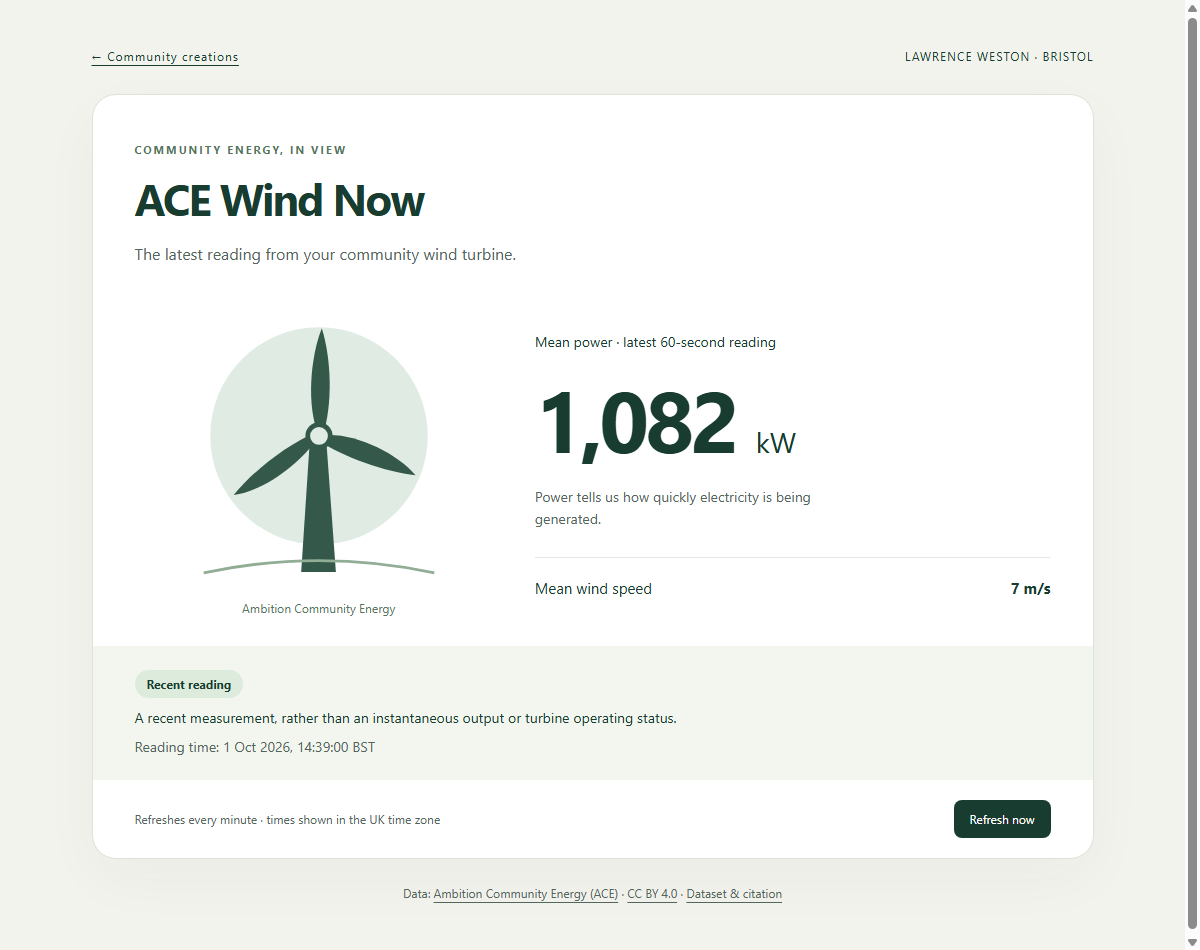
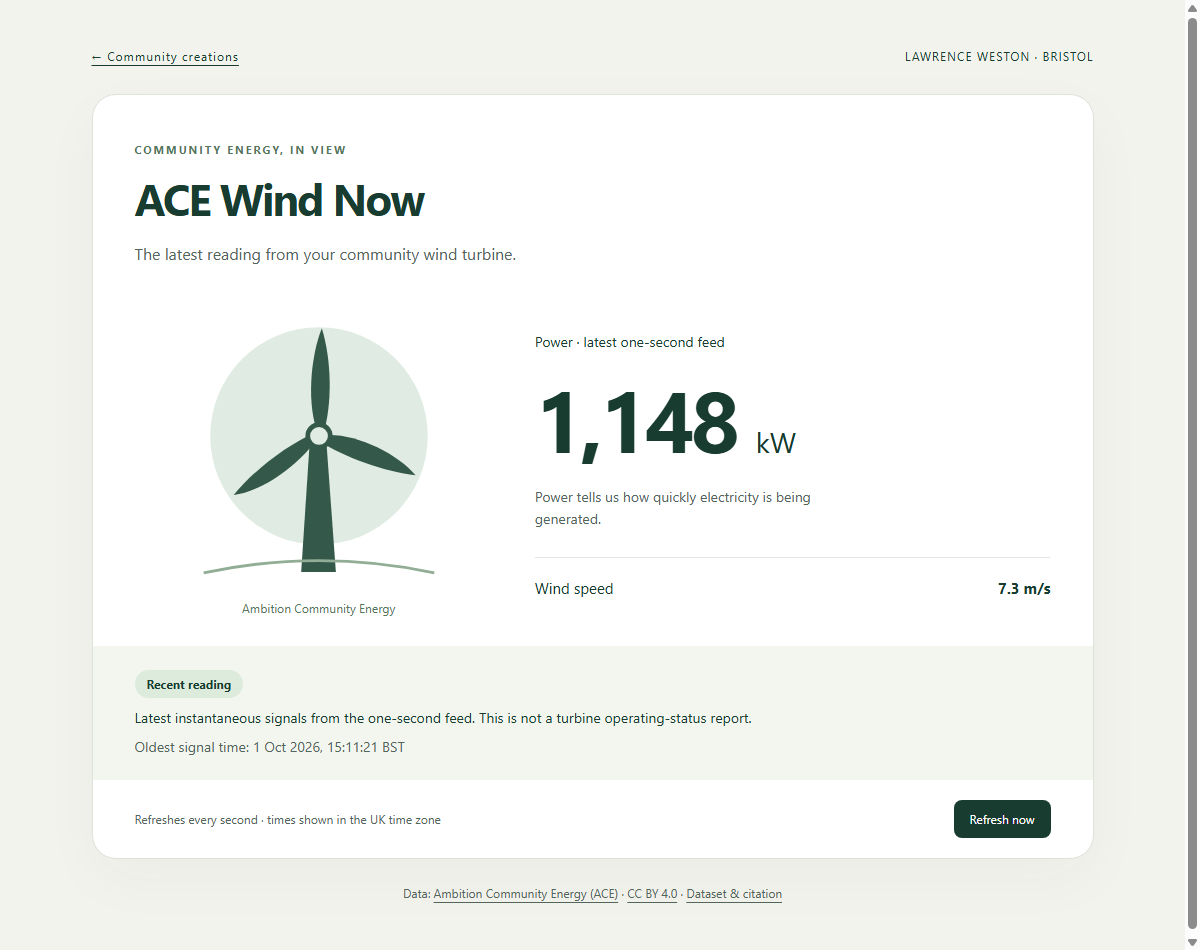
Lead with the challenge and use one-second ACE signals

diff --git a/site/index.html b/site/index.html
@@ -15,10 +15,11 @@
   </header>
   <main>
     <section class="hero shell" aria-labelledby="hero-title">
-      <div class="hero-copy"><p class="eyebrow">Open Data Exploration · Challenge 5</p><h1 id="hero-title">A wind turbine.<br><em>A community of ideas.</em></h1><p class="intro">Explore creative displays that turn live data from Lawrence Weston’s community-owned ACE turbine into something everyone can understand.</p><div class="hero-actions"><a class="button primary" href="#creations">Explore creations <span aria-hidden="true">↓</span></a><a class="button secondary" href="https://community.wedowind.ch/posts/open-data-exploration-solutions-107654528">Enter on WeDoWind ↗</a></div></div>
+      <div class="hero-copy"><p class="eyebrow">Open Data Exploration · Challenge 5</p><h1 id="hero-title">A wind turbine.<br><em>A community of ideas.</em></h1><p class="intro">Your challenge: create an engaging public display with live data from the ACE wind turbine. Help people in Lawrence Weston see what their turbine is doing and discover the value it creates for their community.</p><div class="hero-actions"><a class="button primary" href="#share">Share your idea <span aria-hidden="true">↓</span></a><a class="button secondary" href="https://community.wedowind.ch/posts/open-data-exploration-solutions-107654528">Enter on WeDoWind ↗</a></div></div>
       <div class="hero-art" aria-hidden="true"><div class="sun"></div><div class="hill back"></div><div class="hill front"></div><div class="turbine"><div class="pole"></div><div class="hub"><i></i><i></i><i></i></div></div><div class="art-caption">LAWRENCE WESTON<br>BRISTOL, UK</div></div>
     </section>
     <section class="context"><div class="shell context-grid"><div><p class="eyebrow">The brief</p><h2>Make the live data meaningful.</h2></div><p>ACE’s turbine helps generate income for community work in Lawrence Weston. These creations use its live data to show what the turbine is doing, with the public screen in mind. Each project is independently made and openly shared.</p></div></section>
+    <section id="share" class="contribute" aria-labelledby="share-title"><div class="shell contribute-grid"><div><p class="eyebrow">Your idea belongs here</p><h2 id="share-title">Share what you make.</h2><p>New to code or GitHub? You can send your files through a simple form. If you use Git or an AI agent, <a href="https://github.com/WeDoWind/WeDoWind-ODE-ACE-Challenge">fork this repository</a> and open a pull request. All creations come together here.</p></div><div class="contribute-links"><a href="https://github.com/WeDoWind/WeDoWind-ODE-ACE-Challenge/issues/new?template=creation.yml">Submit with a form <span aria-hidden="true">↗</span></a><a href="https://github.com/WeDoWind/WeDoWind-ODE-ACE-Challenge/blob/main/CONTRIBUTING.md">Read the contribution guide <span aria-hidden="true">↗</span></a><a href="https://ace-api.duckdns.org/docs">Explore the ACE API <span aria-hidden="true">↗</span></a><a href="https://doi.org/10.5281/zenodo.22662372">ACE dataset &amp; citation on Zenodo <span aria-hidden="true">↗</span></a></div></div></section>
     <section id="creations" class="gallery shell" aria-labelledby="gallery-title"><div class="section-heading"><div><p class="eyebrow">The library</p><h2 id="gallery-title">Community creations</h2></div><p id="count" class="count" aria-live="polite"></p></div><div id="gallery" class="cards" aria-live="polite"><p class="loading">Loading creations…</p></div></section>
     <section class="community shell" aria-labelledby="community-title">
       <p class="eyebrow">Keep exploring</p><h2 id="community-title">Meet the community behind the challenge.</h2>
@@ -27,7 +28,6 @@
         <article class="community-card"><div class="community-logo"><img class="ode-logo" src="images/brands/ode-logo.svg" alt="Open Data Exploration (ODE)" width="114" height="110"></div><h3>Get curious about open data.</h3><p>The Open Data Exploration (ODE) space on WeDoWind is a place to explore wind energy data together. Start with the ACE display challenge and share what you discover.</p><a href="https://community.wedowind.ch/spaces/16737373/content">Explore the ODE space <span aria-hidden="true">↗</span></a></article>
       </div>
     </section>
-    <section class="contribute"><div class="shell contribute-grid"><div><p class="eyebrow">Your idea belongs here</p><h2>Share what you make.</h2><p>New to code or GitHub? You can send your files through a simple form. If you use Git or an AI agent, <a href="https://github.com/WeDoWind/WeDoWind-ODE-ACE-Challenge">fork this repository</a> and open a pull request. All creations come together here.</p></div><div class="contribute-links"><a href="https://github.com/WeDoWind/WeDoWind-ODE-ACE-Challenge/issues/new?template=creation.yml">Submit with a form <span aria-hidden="true">↗</span></a><a href="https://github.com/WeDoWind/WeDoWind-ODE-ACE-Challenge/blob/main/CONTRIBUTING.md">Read the contribution guide <span aria-hidden="true">↗</span></a><a href="https://ace-api.duckdns.org/docs">Explore the ACE API <span aria-hidden="true">↗</span></a><a href="https://doi.org/10.5281/zenodo.22662372">ACE dataset &amp; citation on Zenodo <span aria-hidden="true">↗</span></a></div></div></section>
   </main>
   <footer><div class="shell footer-grid"><p>Made for the <a href="https://community.wedowind.ch/posts/open-data-exploration-challenge-5-ace-public-communication-display">WeDoWind ODE challenge</a>. Cite the <a href="https://doi.org/10.5281/zenodo.22662372">ACE dataset (DOI: 10.5281/zenodo.22662372)</a>. ACE data is available under <a href="https://creativecommons.org/licenses/by/4.0/">CC BY 4.0</a>.</p><p>Each creation has its own author and licence. <a href="https://ambitioncommunityenergy.org/">About ACE ↗</a></p></div></footer>
 </body>

diff --git a/site/creations/ace-wind-now/app.js b/site/creations/ace-wind-now/app.js
@@ -1,5 +1,5 @@
-const ENDPOINT = 'https://ace-api.duckdns.org/v1/sites/ace/assets/wec-1/data/wecstd/latest?resolution=60s&fields=active_power_mean,wind_speed_mean&limit=1';
-const STALE_MS = 5 * 60 * 1000;
+const ENDPOINT = 'https://ace-api.duckdns.org/v1/sites/ace/assets/wec-1/data/wec_instantaneous/latest?resolution=1s&fields=wec_active_power,wec_wind_speed&limit=1';
+const STALE_MS = 60 * 1000;
 const ui = Object.fromEntries(['power', 'wind', 'status', 'message', 'timestamp', 'refresh'].map(id => [id, document.getElementById(id)]));
 let reading = null;
 let failed = false;
@@ -7,23 +7,26 @@ let pending = false;
 
 function parseReading(data) {
   const timestamp = data.timestamps?.[0];
-  const power = data.series?.active_power_mean?.[0];
-  const wind = data.series?.wind_speed_mean?.[0];
+  const power = data.series?.wec_active_power?.[0];
+  const wind = data.series?.wec_wind_speed?.[0];
   // ACE timestamps are Unix microseconds, not JavaScript milliseconds.
   const time = timestamp / 1000;
-  if (!Number.isFinite(timestamp) || !Number.isFinite(time) || !Number.isFinite(new Date(time).getTime()) || time > Date.now() + 60000 || !Number.isFinite(power) || !Number.isFinite(wind) || data.quality?.[0] !== 'good') throw new Error('No valid reading');
-  for (const field of ['active_power_mean', 'wind_speed_mean']) {
+  if (!Number.isFinite(timestamp) || !Number.isFinite(time) || !Number.isFinite(new Date(time).getTime()) || time > Date.now() + 60000 || !Number.isFinite(power) || !Number.isFinite(wind) || String(data.quality?.[0]).toLowerCase() !== 'good') throw new Error('No valid reading');
+  for (const field of ['wec_active_power', 'wec_wind_speed']) {
     const quality = data.series_quality?.[field]?.[0];
-    if (quality != null && quality !== 'good') throw new Error('Field quality is not good');
+    if (String(quality).toLowerCase() !== 'good') throw new Error('Field quality is not good');
   }
-  return { time, power, wind };
+  const observed = ['wec_active_power', 'wec_wind_speed'].map(field => data.series_observed_at?.[field]?.[0]);
+  if (observed.some(value => !Number.isFinite(value) || !Number.isFinite(new Date(value / 1000).getTime()) || value / 1000 > Date.now() + 60000)) throw new Error('Invalid observation time');
+  // Use the oldest signal observation so a fresh row cannot hide an old field.
+  return { time: Math.min(time, ...observed.map(value => value / 1000)), power, wind };
 }
 function render() {
   const stale = reading && Date.now() - reading.time > STALE_MS;
   const state = failed ? 'unavailable' : stale ? 'stale' : reading ? 'current' : 'loading';
   ui.status.dataset.state = state;
   ui.status.textContent = { unavailable: 'API unavailable', stale: 'Stale reading', current: 'Recent reading', loading: 'Loading' }[state];
-  ui.message.textContent = failed ? (reading ? 'Could not refresh. Showing the last successful reading; it may be out of date.' : 'No reading available. We will retry automatically in one minute.') : stale ? 'This reading is more than five minutes old. It does not describe the turbine right now.' : reading ? 'A recent measurement, rather than an instantaneous output or turbine operating status.' : 'Fetching the latest ACE reading…';
+  ui.message.textContent = failed ? (reading ? 'Could not refresh. Showing the last successful reading; it may be out of date.' : 'No reading available. We will retry automatically in one second.') : stale ? 'This reading is more than one minute old. It does not describe the turbine right now.' : reading ? 'Latest instantaneous signals from the one-second feed. This is not a turbine operating-status report.' : 'Fetching the latest ACE reading…';
   ui.power.textContent = reading ? reading.power.toLocaleString('en-GB', { maximumFractionDigits: 0 }) : '—';
   ui.wind.textContent = reading ? reading.wind.toLocaleString('en-GB', { maximumFractionDigits: 1 }) : '—';
   ui.timestamp.textContent = reading ? new Intl.DateTimeFormat('en-GB', { dateStyle: 'medium', timeStyle: 'long', timeZone: 'Europe/London' }).format(new Date(reading.time)) : 'Not available yet';
@@ -43,5 +46,5 @@ async function refresh() {
 }
 ui.refresh.addEventListener('click', refresh);
 refresh();
-setInterval(refresh, 60000);
-setInterval(render, 10000);
+setInterval(refresh, 1000);
+setInterval(render, 1000);

diff --git a/site/creations/ace-wind-now/index.html b/site/creations/ace-wind-now/index.html
@@ -3,7 +3,7 @@
 <body><main><header><a href="../../">← Community creations</a><span>LAWRENCE WESTON · BRISTOL</span></header>
 <section class="card" aria-labelledby="title"><div class="intro"><p class="eyebrow">COMMUNITY ENERGY, IN VIEW</p><h1 id="title">ACE Wind Now</h1><p>The latest reading from your community wind turbine.</p></div>
 <div class="readings"><div class="art" aria-hidden="true"><svg viewBox="0 0 320 320"><circle cx="160" cy="145" r="116" fill="#e0ece3"/><path d="M150 153 L141 290 H178 L168 153" fill="#34594b"/><g fill="#34594b"><path d="M160 145 C146 113 151 60 163 30 C173 62 175 110 164 145Z"/><path d="M160 145 C193 139 242 162 263 187 C231 183 187 168 160 150Z"/><path d="M160 145 C141 174 101 204 69 208 C89 183 126 154 157 141Z"/></g><circle cx="160" cy="145" r="12" fill="#e0ece3" stroke="#34594b" stroke-width="5"/><path d="M37 291 Q160 265 283 291" fill="none" stroke="#91ad96" stroke-width="3"/></svg><span>Ambition Community Energy</span></div>
-<div class="numbers"><p class="label">Mean power · latest 60-second reading</p><p class="power"><span id="power">—</span> <span class="unit">kW</span></p><p class="explain">Power tells us how quickly electricity is being generated.</p><div class="wind"><span>Mean wind speed</span><strong><span id="wind">—</span> m/s</strong></div></div></div>
-<div class="status-area" aria-live="polite"><span id="status" class="badge">Loading</span><p id="message">Fetching the latest ACE reading…</p><p class="timestamp">Reading time: <time id="timestamp">Not available yet</time></p></div>
-<footer><span>Refreshes every minute · times shown in the UK time zone</span><button id="refresh" type="button">Refresh now</button></footer></section>
+<div class="numbers"><p class="label">Power · latest one-second feed</p><p class="power"><span id="power">—</span> <span class="unit">kW</span></p><p class="explain">Power tells us how quickly electricity is being generated.</p><div class="wind"><span>Wind speed</span><strong><span id="wind">—</span> m/s</strong></div></div></div>
+<div class="status-area" aria-live="polite"><span id="status" class="badge">Loading</span><p id="message">Fetching the latest ACE reading…</p><p class="timestamp">Oldest signal time: <time id="timestamp">Not available yet</time></p></div>
+<footer><span>Refreshes every second · times shown in the UK time zone</span><button id="refresh" type="button">Refresh now</button></footer></section>
 <p class="credit">Data: <a href="https://ambitioncommunityenergy.org/">Ambition Community Energy (ACE)</a> · <a href="https://creativecommons.org/licenses/by/4.0/">CC BY 4.0</a> · <a href="https://doi.org/10.5281/zenodo.22662372">Dataset &amp; citation</a></p></main></body></html>

diff --git a/site/creations/ace-wind-now/README.md b/site/creations/ace-wind-now/README.md
@@ -1,6 +1,6 @@
 # ACE Wind Now
 
-A dependency-free card showing the ACE turbine's latest 60-second mean active power (kW) and mean wind speed (m/s). The illustration is decorative and does not indicate rotor speed or operating status.
+A dependency-free card showing the ACE turbine's latest instantaneous active power (kW) and wind speed (m/s). The illustration is decorative and does not indicate rotor speed or operating status.
 
 ## Run and reproduce
 
@@ -9,12 +9,12 @@ From the repository root, run `python -m http.server 8000 --directory site`, the
 ## Data and behaviour
 
 - API documentation: https://ace-api.duckdns.org/docs (OpenAPI version 0.7.0 inspected on 1 October 2026).
-- Live endpoint: https://ace-api.duckdns.org/v1/sites/ace/assets/wec-1/data/wecstd/latest?resolution=60s&fields=active_power_mean,wind_speed_mean&limit=1
+- Live endpoint: https://ace-api.duckdns.org/v1/sites/ace/assets/wec-1/data/wec_instantaneous/latest?resolution=1s&fields=wec_active_power,wec_wind_speed&limit=1
 - Access date: 1 October 2026. The endpoint and its public CORS headers were verified.
-- Refresh interval: 60 seconds, matching the API's recommendation for this resolution. Requests time out after 15 seconds; overlapping requests are prevented.
-- The API timestamp is Unix microseconds, converted to milliseconds for display in Europe/London, including daylight saving. Readings older than five minutes are labelled stale; freshness is rechecked every ten seconds.
+- Refresh interval: one second, matching the API's recommendation for this resolution. Requests time out after 15 seconds; overlapping requests are prevented.
+- The API timestamp is Unix microseconds, converted to milliseconds for display in Europe/London, including daylight saving. Readings older than one minute are labelled stale; freshness is rechecked every second, using the oldest of the two per-signal observation timestamps.
 - Missing, non-finite, future-dated (over one minute), or non-good-quality readings are rejected. Fetch errors display an unavailable message and keep any last successful reading with its timestamp. Without a successful reading, values remain blank; no demonstration data is presented as live.
-- Values are API means, rounded only for display. No energy, income, emissions, operating-status, or community-impact calculations are made.
+- Values are instantaneous API signals from the one-second feed, rounded only for display. No energy, income, emissions, operating-status, or community-impact calculations are made.
 
 ## ACE attribution and citation
 
@@ -30,7 +30,7 @@ Code and original inline turbine illustration: MIT, see LICENSE. The gallery scr
 
 Creator credit uses the repository contributor handle `charlie9578`.
 
-The viewing URL becomes available when this branch is merged and GitHub Pages deploys. A gallery pull request is separate from official challenge submission on WeDoWind.
+The display is hosted on the repository’s GitHub Pages site. A gallery pull request is separate from official challenge submission on WeDoWind.
 
 ## Checks
 
